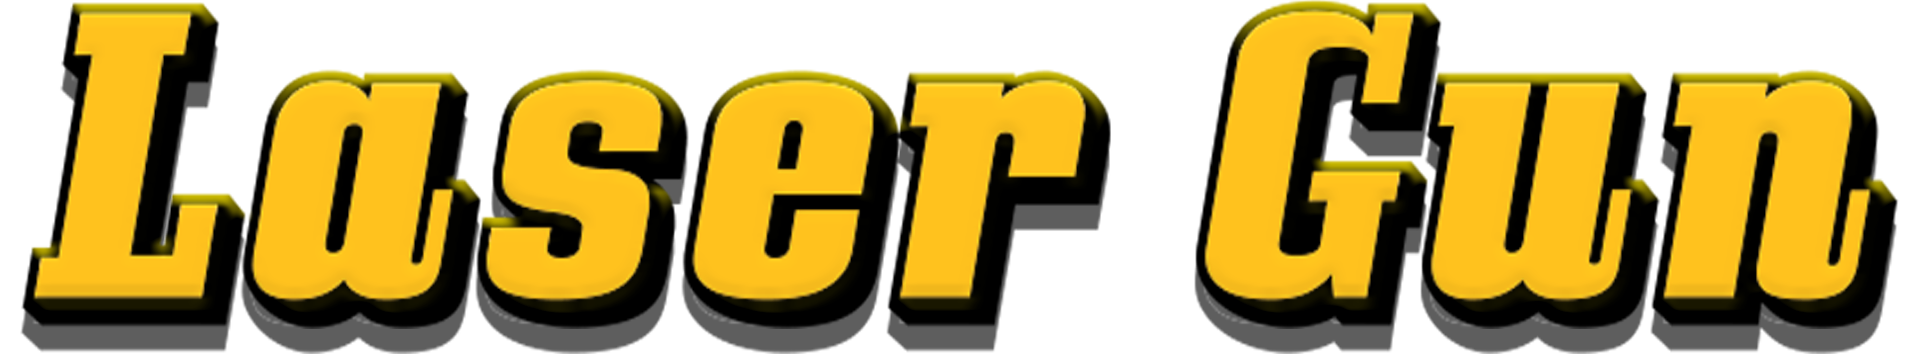
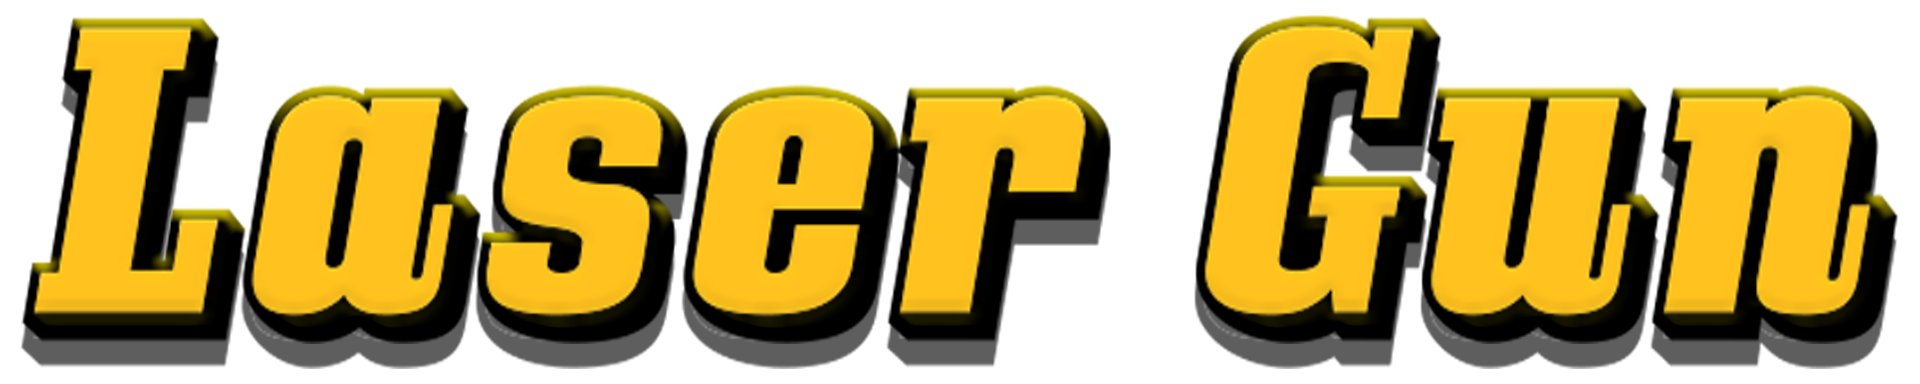
UI word

diff --git a/Assets/Scripts/TextDebug.cs b/Assets/Scripts/TextDebug.cs
@@ -7,7 +7,8 @@ public class TextDebug : MonoBehaviour
 {
     public PlayerWeapon m_pw;
 
-    public TMPro.TMP_Text text;
+    public Image m_Image;
+    public Sprite[] m_Sprites;
     // Start is called before the first frame update
     void Start()
     {
@@ -17,6 +18,6 @@ public class TextDebug : MonoBehaviour
     // Update is called once per frame
     void Update()
     {
-        text.text = m_pw.m_BType.ToString();
+        m_Image.sprite = m_Sprites[(int)m_pw.m_BType];
     }
 }
